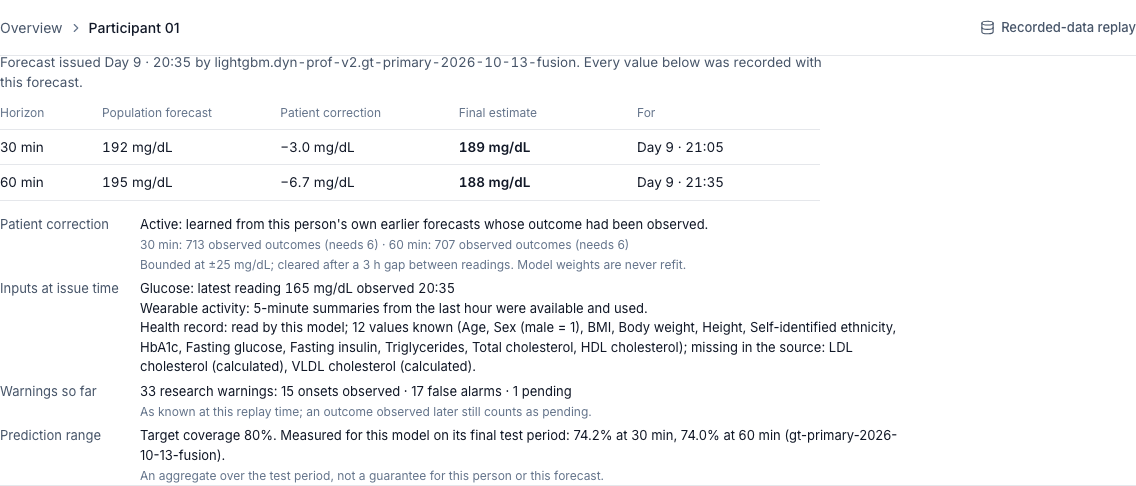
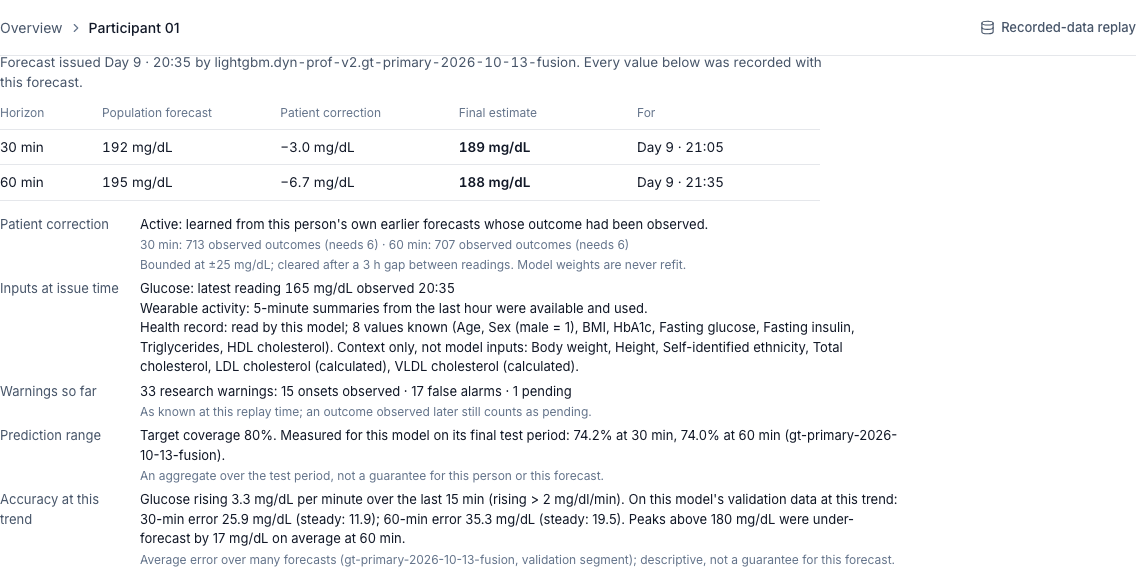
fix(workspace): the explanation lists only the profile values the issuing model reads; the rest are context only

diff --git a/apps/web/src/lib/explain.test.ts b/apps/web/src/lib/explain.test.ts
@@ -43,7 +43,7 @@ describe("how the twin reached a forecast", () => {
     ] as SessionProfile["values"]);
     const e = explainForecast(f, { cutoff: CUTOFF, profile: p });
     expect(e.inputs.wearable).toBe("used_missing");
-    expect(e.inputs.profile).toEqual({ use: "used", known: ["Age"], notYet: ["HbA1c"], missing: ["Fasting insulin"] });
+    expect(e.inputs.profile).toEqual({ use: "used", known: ["Age"], notYet: ["HbA1c"], missing: ["Fasting insulin"], context: [] });
     expect(e.inputs.glucose).toEqual({ value: 150, observedAt: "2000-01-03T09:57:00Z" });
   });
 
@@ -54,7 +54,7 @@ describe("how the twin reached a forecast", () => {
     expect(explainForecast(dyn, { cutoff: CUTOFF }).inputs.wearable).toBe("used");
     const fusion = forecast({ model_version: "lightgbm.dyn-prof-v2.x" });
     const other = profile(p.values, { session_revision: 2 });
-    expect(explainForecast(fusion, { cutoff: CUTOFF, profile: other }).inputs.profile).toEqual({ use: "unknown", known: [], notYet: [], missing: [] });
+    expect(explainForecast(fusion, { cutoff: CUTOFF, profile: other }).inputs.profile).toEqual({ use: "unknown", known: [], notYet: [], missing: [], context: [] });
   });
 
   it("counts warning outcomes as known at the cutoff, and only from this session revision", () => {
@@ -80,5 +80,17 @@ describe("how the twin reached a forecast", () => {
     expect(same.coverage).toEqual({ target: 0.8, measured: [{ horizon: 30, coverage: 0.742 }], experiment: "exp" });
     const synthetic = explainForecast(forecast(), { cutoff: CUTOFF, report });
     expect(synthetic.coverage).toEqual({ target: 0.8, measured: null, experiment: null });
+  });
+});
+
+describe("profile values the model reads", () => {
+  it("lists only the issuing model's profile inputs as read and the rest as context", () => {
+    const e = explainForecast(forecast({ model_version: "lightgbm.dyn-prof-v2.x", as_of: "2000-01-03T09:57:00Z" }), {
+      cutoff: CUTOFF, profileInputs: ["age"], profile: profile([
+        { name: "age", label: "Age", value: 50, status: "available", available_at: "2000-01-01T00:00:00Z" },
+        { name: "weight", label: "Body weight", value: 80, status: "available", available_at: "2000-01-01T00:00:00Z" },
+      ] as SessionProfile["values"]) });
+    expect(e.inputs.profile?.known).toEqual(["Age"]);
+    expect(e.inputs.profile?.context).toEqual(["Body weight"]);
   });
 });

diff --git a/apps/web/src/components/twin/TwinExplanation.tsx b/apps/web/src/components/twin/TwinExplanation.tsx
@@ -13,8 +13,10 @@ const plural = (n: number, w: string) => `${n} ${w}${n === 1 ? "" : "s"}`;
  * which inputs were available; the warning track record and range coverage at this replay clock. No history curve and
  * no recomputation: the final estimate shown is the API's own.
  */
-export function TwinExplanation({ latest, alerts, profile, report, clockAt }: {
+export function TwinExplanation({ latest, alerts, profile, report, clockAt, profileInputs }: {
   latest?: LatestForecast; alerts?: AlertList; profile?: SessionProfile; report?: EvaluationReport; clockAt: string;
+  /** profile values the issuing model reads, from /serving for the same model version */
+  profileInputs?: string[] | null;
 }) {
   const cutoff = ms(clockAt);
   const f = latest?.forecast && ms(latest.forecast.as_of) <= cutoff ? latest.forecast : null;
@@ -26,7 +28,7 @@ export function TwinExplanation({ latest, alerts, profile, report, clockAt }: {
         : !usable || !f ? (
           <p className="explain__lede">No forecast is shown at this replay time, so there is nothing to explain yet.
             {" "}{latest.forecast?.quality.reasons[0]?.message ?? latest.reasons[0]?.message ?? ""}</p>
-        ) : <Body e={explainForecast(f, { cutoff, alerts, profile, report })} stale={latest.availability === "stale"} age={latest.age_minutes} />}
+        ) : <Body e={explainForecast(f, { cutoff, alerts, profile, report, profileInputs })} stale={latest.availability === "stale"} age={latest.age_minutes} />}
     </section>
   );
 }
@@ -143,5 +145,6 @@ function profileText(p: NonNullable<Explanation["inputs"]["profile"]>): string {
   if (p.use === "not_input") return `not an input of this model; ${known}${rest ? `; ${rest}` : ""} — shown for context only.`;
   if (p.use === "used_missing") return `read by this model; a value it needs was missing or not yet known, so it abstained. ${rest}`.trim();
   if (p.use === "unknown") return "read by this model; the profile has not loaded yet.";
-  return `read by this model; ${known}${rest ? `; ${rest}` : ""}.`;
+  const ctx = p.context.length ? ` Context only, not model inputs: ${list(p.context)}.` : "";
+  return `read by this model; ${known}${rest ? `; ${rest}` : ""}.${ctx}`;
 }

diff --git a/apps/web/src/lib/explain.ts b/apps/web/src/lib/explain.ts
@@ -31,7 +31,7 @@ export interface InputsUsed {
   glucose: { value: number; observedAt: string } | null;
   wearable: InputUse;
   /** null when the model's feature set is not encoded in its version */
-  profile: { use: InputUse; known: string[]; notYet: string[]; missing: string[] } | null;
+  profile: { use: InputUse; known: string[]; notYet: string[]; missing: string[]; context: string[] } | null;
 }
 
 export interface TrackRecord {
@@ -116,6 +116,8 @@ export function explainForecast(f: Forecast, opts: {
   alerts?: AlertList;
   profile?: SessionProfile;
   report?: EvaluationReport;
+  /** names of the profile values the issuing model reads (from /serving); other values are context only */
+  profileInputs?: string[] | null;
 }): Explanation {
   const issued = ms(f.as_of);
   const p = f.personalization;
@@ -132,14 +134,17 @@ export function explainForecast(f: Forecast, opts: {
     const known: string[] = [];
     const notYet: string[] = [];
     const missing: string[] = [];
+    const context: string[] = [];
+    const reads = opts.profileInputs ? new Set(opts.profileInputs) : null;
     for (const v of prof?.values ?? []) {
+      if (reads && !reads.has(v.name)) { context.push(v.label); continue; }
       // judged at the forecast's own issue time: a value that became available later was not known to this forecast
       if (v.status === "available" && v.available_at && ms(v.available_at) <= issued) known.push(v.label);
       else if (v.status === "available" || v.status === "not_yet_available") notYet.push(v.label);
       else missing.push(v.label);
     }
     const use: InputUse = !usesProfile ? "not_input" : codes.has("profile_unavailable") ? "used_missing" : prof ? "used" : "unknown";
-    profile = { use, known, notYet, missing };
+    profile = { use, known, notYet, missing, context };
   }
 
   const cov = measuredCoverage(opts.report, f.model_version);

diff --git a/apps/web/src/pages/ReplayPage.tsx b/apps/web/src/pages/ReplayPage.tsx
@@ -11,7 +11,7 @@ import { modeLabel } from "@/lib/format";
 import { paths } from "@/lib/routes";
 import { ms, replayTime } from "@/lib/time";
 import { useDeployment } from "@/state/deployment";
-import { useEvaluation } from "@/state/evaluation";
+import { useEvaluation, useServing } from "@/state/evaluation";
 import { useOpenTwin } from "@/state/open";
 import { usePreferences } from "@/state/preferences";
 import {
@@ -60,6 +60,7 @@ export function ReplayPage({ sid }: { sid: string }) {
   const twin = useTwin(session);
   const profile = useSessionProfile(session);
   const evaluation = useEvaluation();
+  const serving = useServing();
   const { publicDemo } = useDeployment();
   const { events, loaded: eventsLoaded } = useReleasedEvents(session);
   const [selectedId, setSelectedId] = useState<string | null>(null);
@@ -179,7 +180,8 @@ export function ReplayPage({ sid }: { sid: string }) {
       </div>
 
       <TwinExplanation latest={latest.data} alerts={alerts.data} profile={profile.data} report={evaluation.data}
-        clockAt={session.clock_at} />
+        clockAt={session.clock_at}
+        profileInputs={serving.data?.items.find((m) => m.model_version === latest.data?.forecast?.model_version)?.profile_inputs} />
 
       <div className="lower">
         <RecentObservations events={events} clock={clock} loaded={eventsLoaded} />
